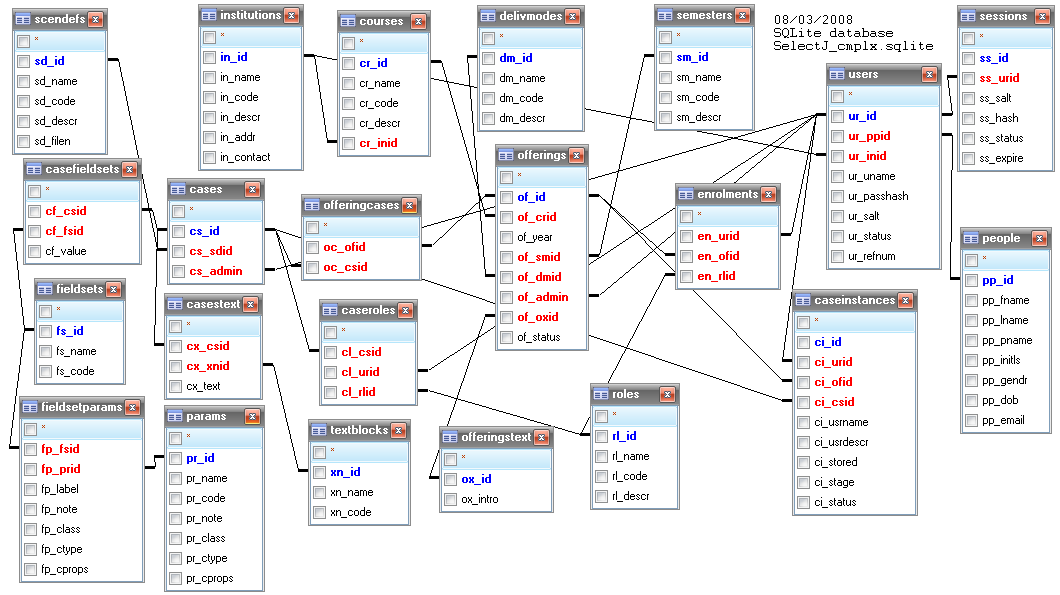
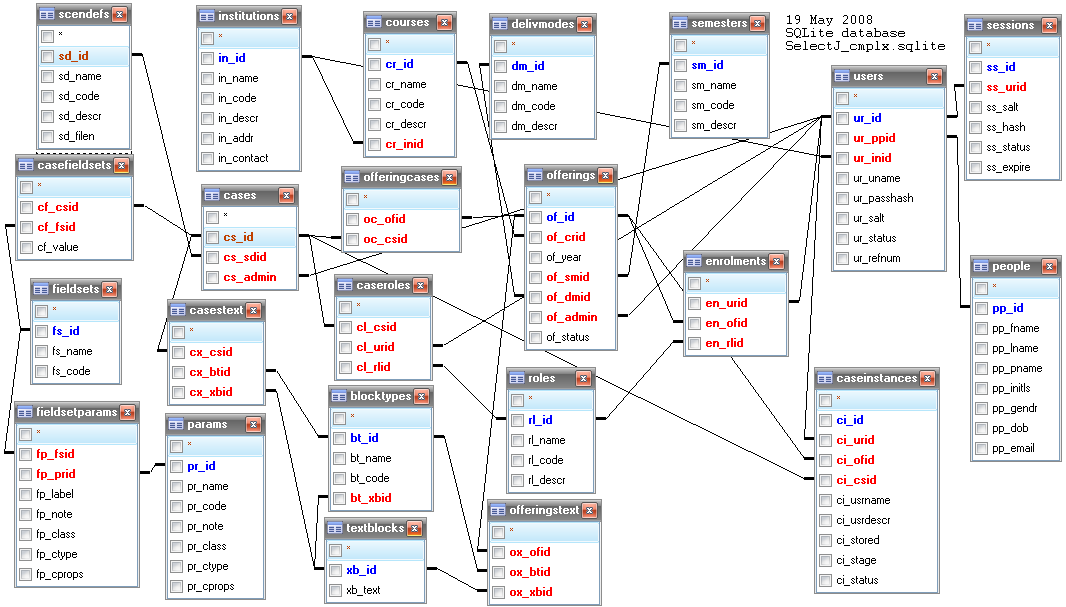
Update `DatabaseDiagram.png1` with textblock structure changes. Add `messagetext` table to database. Add casestatus, caseinfo and error text to starting database. Add `adminMenu` to webpages, displayed based on user role. Remove casestatus, caseinfo text from `.asp` pages.
git-svn-id: https://free2.projectlocker.com/RikkiTikkiTavi/selectj/svn/trunk@211 9a28d70f-7318-3d49-a9e1-554383617220

diff --git a/Website/public/animalsim.css b/Website/public/animalsim.css
@@ -166,7 +166,7 @@ table{
 	margin-top:8px;
 	background-color:white;
 }
-#caseInfo div {
+#caseInfo div,  #caseInfo h2{
 	padding:2px;
 }
 #caseInfo p,#caseInfo h3 {
@@ -445,9 +445,9 @@ font-weight: normal;
 html>body #navBar dd {border-bottom: none;}
 
 
-/*********** #sectionLinks styles ***********/
+/*********** #userMenu styles ***********/
 
-#sectionLinks{
+#userMenu{
 	position: relative;
 	margin: 0;
 	padding: 15px 0px 0px 0px;
@@ -455,17 +455,17 @@ html>body #navBar dd {border-bottom: none;}
 	font-size: 90%;
 }
 
-#sectionLinks dt{
+#userMenu dt{
 	padding: 0px 0px 1px 10px;
 	font-weight:bold;
 	color:#668800;
 }
 
-#sectionLinks h3{
+#userMenu h3{
 	padding: 10px 0px 2px 20px;
 }
 
-#sectionLinks a:link{
+#userMenu a:link{
 	padding: 2px 0px 2px 20px;
 	border-top: 1px solid #ccc;
 	width: 100%;
@@ -474,16 +474,61 @@ html>body #navBar dd {border-bottom: none;}
 	width: auto;
 }
 
-#sectionLinks a:visited{
+#userMenu a:visited{
 	border-top: 1px solid #ccc;
 	padding: 2px 0px 2px 20px;
 }
 
-#sectionLinks a:hover{
+#userMenu a:hover{
 	border-top: 1px solid #ccc;
 	background-color: #ddd;
 	padding: 2px 0px 2px 20px;
 }
+
+/*********** #adminMenu styles ***********/
+
+#navBar #adminMenu{
+	background-color: #ffdd77;
+}
+
+#adminMenu{
+	position: relative;
+	margin: 0;
+	padding: 15px 0px 0px 0px;
+	border-bottom: 1px solid #ccc;
+	font-size: 90%;
+}
+
+#adminMenu dt{
+	padding: 0px 0px 1px 10px;
+	font-weight:bold;
+	color:#668800;
+}
+
+#adminMenu h3{
+	padding: 10px 0px 2px 20px;
+}
+
+#adminMenu a:link{
+	padding: 2px 0px 2px 20px;
+	border-top: 1px solid #ccc;
+	width: 100%;
+  voice-family: "\"}\""; 
+  voice-family:inherit;
+	width: auto;
+}
+
+#adminMenu a:visited{
+	border-top: 1px solid #ccc;
+	padding: 2px 0px 2px 20px;
+}
+
+#adminMenu a:hover{
+	border-top: 1px solid #ccc;
+	background-color: #ddd;
+	padding: 2px 0px 2px 20px;
+}
+
 
 
 /*********** .relatedLinks styles ***********/
